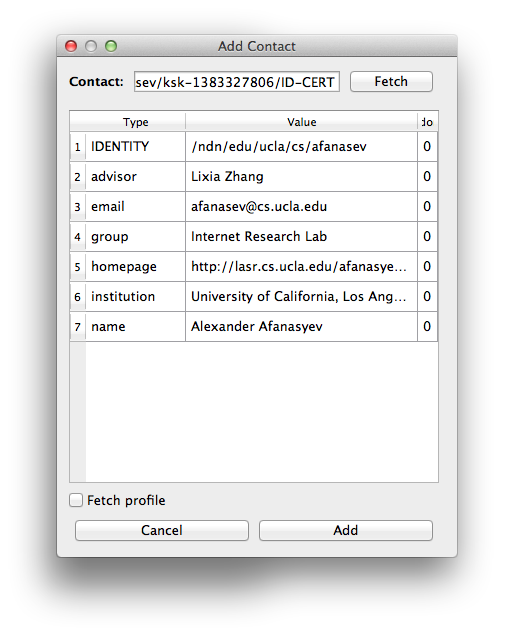
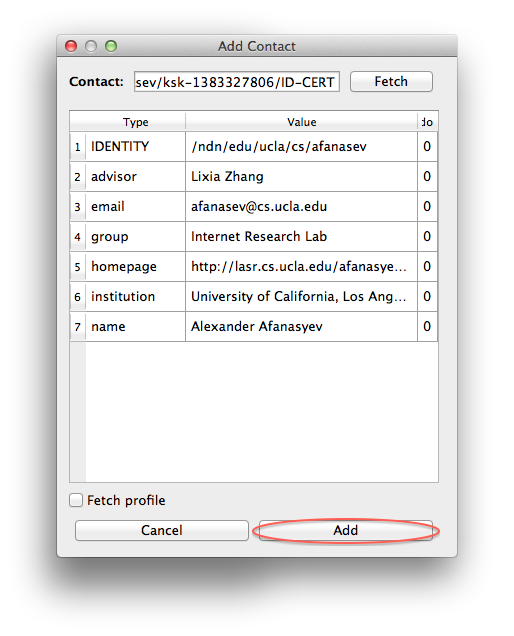
finish manual

Changed region(s): [[0.4981, 0.8066, 0.8716, 0.8664]]

diff --git a/doc/index.rst b/doc/index.rst
@@ -56,3 +56,55 @@ If the certificate can be fetched and verified, the dialog will show you the des
 
 .. image:: https://raw.github.com/bruinfish/ChronoChat-V2/master/doc/img/add-contact-2.png
 
+You can click **Add** to add the contact into contact list.
+
+**Step 3**: Now you can start a chatting room with you contacts. 
+You can right click the contact you want to chat, and then select **Chat**. 
+
+.. image:: https://raw.github.com/bruinfish/ChronoChat-V2/master/doc/img/chronochat-4.png
+
+You should see a "Start Chating" dialog:
+
+.. image:: https://raw.github.com/bruinfish/ChronoChat-V2/master/doc/img/start-chat.png
+
+You can click **OK** button, and then you will enter the chat room, and a chat invitation will be sent to the contact.
+
+.. image:: https://raw.github.com/bruinfish/ChronoChat-V2/master/doc/img/chatdialog-1.png
+
+If you see some red warning at the top of your chatroom window, such as:
+
+.. image:: https://raw.github.com/bruinfish/ChronoChat-V2/master/doc/img/chatdialog-3.png
+
+You can click the tray icon of the chat room to update your local prefix, such as:
+
+.. image:: https://raw.github.com/bruinfish/ChronoChat-V2/master/doc/img/update-prefix.png
+
+After that the red warning should disappear and your current prefix will turn green.
+
+**Step 4**: At the contact side, the contact will got a inviation notification if the contact has also added you as a contact:
+
+.. image:: https://raw.github.com/bruinfish/ChronoChat-V2/master/doc/img/invitation-notify.png
+
+The contact may **Accept** or **Reject** your invitation. 
+Once your inviation is accepted, contact will enter the chat room, and both of you should see each other:
+
+.. image:: https://raw.github.com/bruinfish/ChronoChat-V2/master/doc/img/chatdialog-2.png
+
+Now you can chat with people in the chat room.
+
+**Step 5**: If you want to add more contacts into the chat room, you can invite them by clicking the **Invite** button.
+
+.. image:: https://raw.github.com/bruinfish/ChronoChat-V2/master/doc/img/chatdialog-4.png
+
+Then a contact list will pop up and you can select other contact to invite:
+
+.. image:: https://raw.github.com/bruinfish/ChronoChat-V2/master/doc/img/invite.png
+
+When the invited contact accept your invitation, you should see the contact enter the chat room.
+
+.. image:: https://raw.github.com/bruinfish/ChronoChat-V2/master/doc/img/chatdialog-5.png
+
+**Step 6**: Enjoy chatting with others!
+
+.. image:: https://raw.github.com/bruinfish/ChronoChat-V2/master/doc/img/chatdialog-6.png
+
